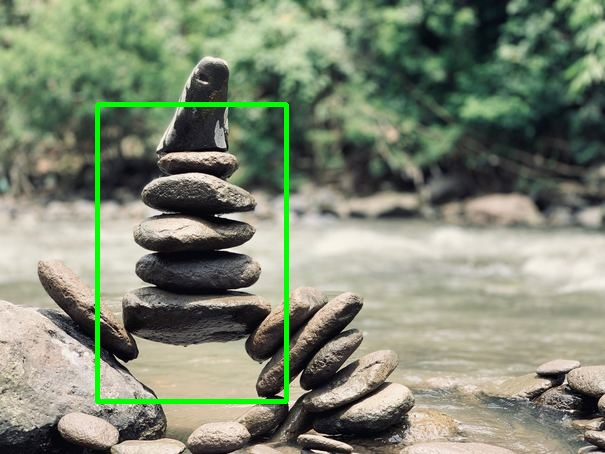
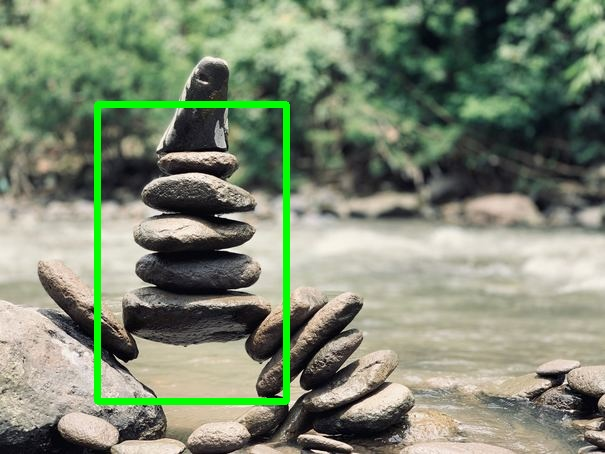
improved README

Changed region(s): [[0.1488, 0.2159, 0.5058, 0.8943]]

diff --git a/src/discolight/doc.py b/src/discolight/doc.py
@@ -175,7 +175,7 @@ def make_augmentation_doc_object(augmentation, sample_image_path,
     save_image(
         os.path.join(output_dir,
                      "{}-input-bboxes.jpg".format(augmentation.__name__)),
-        image, annotations, (0, 255, 0), 3)
+        image, annotations, (0, 255, 0), 5)
 
     bboxes = annotations_to_numpy_array(annotations)
 
@@ -190,7 +190,7 @@ def make_augmentation_doc_object(augmentation, sample_image_path,
     save_image(
         os.path.join(output_dir,
                      "{}-bboxes.jpg".format(augmentation.__name__)),
-        augmented_image, augmented_annotations, (0, 255, 0), 3)
+        augmented_image, augmented_annotations, (0, 255, 0), 5)
 
     doc_object["sample_image"] = "{}-input.jpg".format(augmentation.__name__)
     doc_object["sample_image_bboxes"] = "{}-input-bboxes.jpg".format(

diff --git a/README.md b/README.md
@@ -14,7 +14,6 @@ performance of deep convolutional neural networks
   - Supports python 3.6-3.8
   - Supports transformations on images, and bounding boxes.
   - The library works with images in `HxWxC` format.
-  - This library is maintained by **Datature.io**
 
 ## Setup
 

diff --git a/src/discolight/doc_templates/readme.md b/src/discolight/doc_templates/readme.md
@@ -14,7 +14,6 @@ performance of deep convolutional neural networks
   - Supports python 3.6-3.8
   - Supports transformations on images, and bounding boxes.
   - The library works with images in `HxWxC` format.
-  - This library is maintained by **Datature.io**
 
 ## Setup
 

diff --git a/src/discolight/doc_templates/discolight.md b/src/discolight/doc_templates/discolight.md
@@ -160,8 +160,7 @@
 {% if augmentation.sample_options %}
 Sample Image augmented with options:
 ```
-{{augmentation.sample_options}}
-```
+{{augmentation.sample_options}}```
 {% endif %}
 
 {% if augmentation.ensures %}

diff --git a/doc/discolight.md b/doc/discolight.md
@@ -804,7 +804,6 @@ augmentations:
 - name: SaltAndPepperNoise
   options:
     noise_type: SnP
-
 ```
 
 
